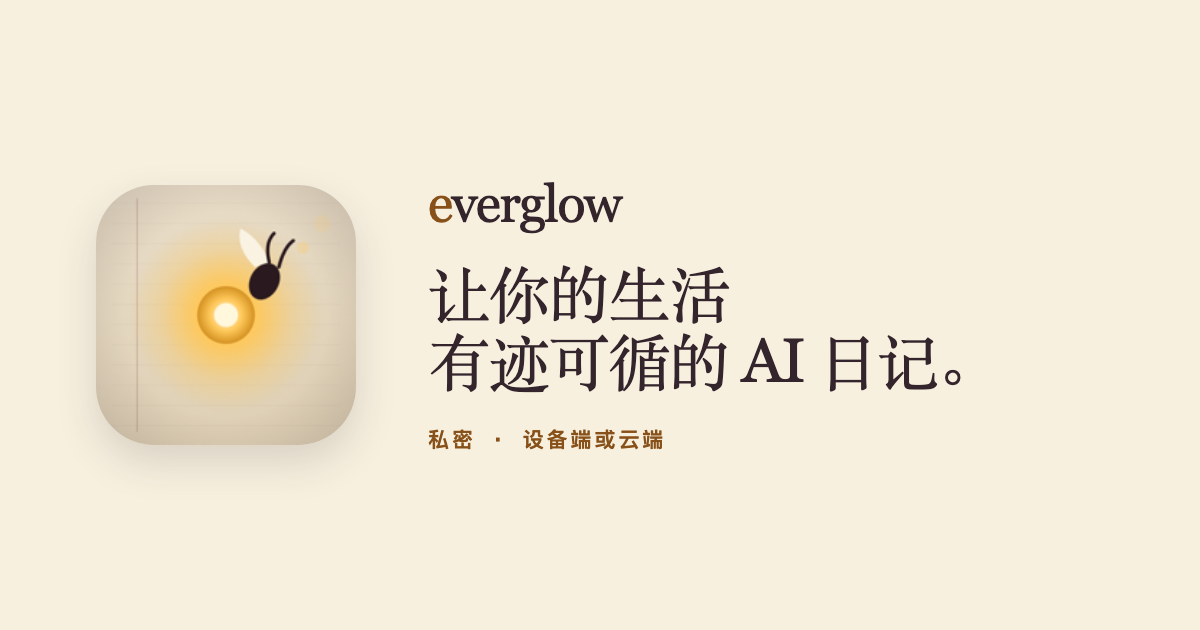
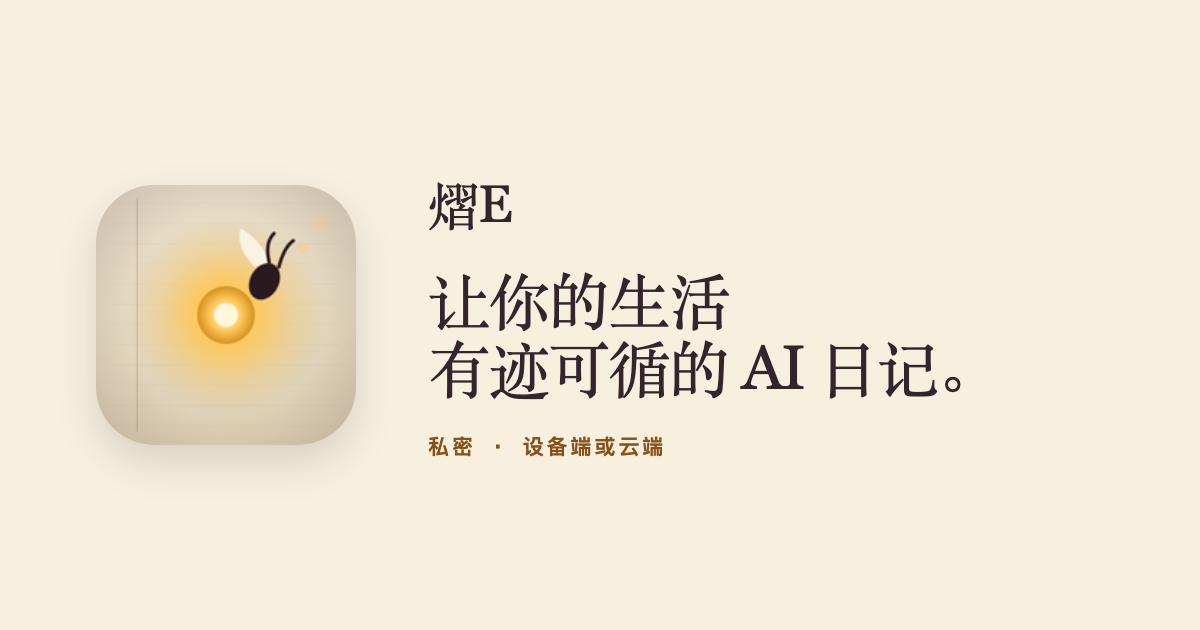
Call the app 熠E in Chinese, as the app and its App Store listing do (#20) (#21)
The Chinese copy, header wordmark, page titles, share card and search
data name the app 熠E (its Chinese App Store name, 熠E: AI 日志, in titles
and structured data), following the app's #974 rule: the Cloud product
keeps "Everglow 云端" and the lines naming Everglow as the Cloud service's
operator keep "Everglow". Structured data lists the English names as
alternates, and llms.txt states the Chinese name. Legal text and every
other language are unchanged.

Fix #20

diff --git a/site/build.py b/site/build.py
@@ -57,6 +57,9 @@ GUIDES = ('rosebud-alternative', 'move-from-day-one', 'own-api-key-journal', 'on
 
 LANGUAGES = {'en':('en','English'), 'zh':('zh-Hans','中文'), 'ja':('ja','日本語'),
              'fr':('fr','Français'), 'es':('es','Español')}
+# In Chinese the app is 熠E (app #973), and its Chinese App Store listing reads 熠E: AI 日志; Everglow elsewhere.
+BRAND = {'zh':'熠E'}
+APP_NAME = {'zh':'熠E: AI 日志'}
 SOURCE = json.loads((ROOT/'locales/source.json').read_text())
 EN_UI = {'language':'Language','main':'Main navigation','skip':'Skip to content',
          'preview':'Local review draft · Nothing published','ai-and-privacy':'AI & privacy',
@@ -147,6 +150,10 @@ for locale,(html_lang,_) in LANGUAGES.items():
     data={} if locale=='en' else json.loads((ROOT/'locales'/(locale+'.json')).read_text())
     ui=EN_UI if locale=='en' else data['ui']
     locale_root=dist if locale=='en' else dist/locale
+    brand=BRAND.get(locale,'Everglow');app_name=APP_NAME.get(locale,'Everglow: AI Journal')
+    # A localized name keeps the English ones as alternates, so search and AI engines connect the two.
+    alternate_names=([brand,'Everglow: AI Journal'] if locale in BRAND else [])+['Everglow AI Journal','Everglow']
+    wordmark=escape(brand) if locale in BRAND else '<span>e</span>verglow'
     for key,filename,path,title,description in PAGES:
         destination=locale_root/filename;destination.parent.mkdir(parents=True,exist_ok=True)
         def link(target):
@@ -170,9 +177,9 @@ for locale,(html_lang,_) in LANGUAGES.items():
             body=body.replace('href="./index.html"','href="'+SUPPORT+'"')
             for sibling in ('privacy','terms'):body=body.replace('href="./'+sibling+'.html"','href="'+link(locale_root/sibling/'index.html')+'"')
             main='<main class="wrap" id="main">'+body+'</main>'
-            header='<header class="legal-header"><a href="'+link(locale_root/'index.html')+'">← Everglow</a>'+language_nav+'</header>'
+            header='<header class="legal-header"><a href="'+link(locale_root/'index.html')+'">← '+escape(brand)+'</a>'+language_nav+'</header>'
             footer=''
-            if locale!='en':title='Everglow — '+segments[0];description=segments[2]
+            if locale!='en':title=brand+' — '+segments[0];description=segments[2]
         else:
             body=translated_body(key,locale,data)
             site_base=link(dist/'assets'/'earlier-entry.png').rsplit('assets/',1)[0]
@@ -180,27 +187,27 @@ for locale,(html_lang,_) in LANGUAGES.items():
             body=body.replace('{{BASE}}assets/',site_base+'assets/').replace('{{BASE}}',local_base).replace('{{APP}}',APP)
             main='<main id="main">'+body+'</main>'
             nav=''.join('<a href="'+link(locale_root/slug/'index.html')+'"'+(' aria-current="page"' if key==slug else '')+'>'+escape(ui[slug])+'</a>' for slug in ('ai-and-privacy','plans','portability'))
-            header='<header><nav class="wrap" aria-label="'+escape(ui['main'],quote=True)+'"><a class="brand" href="'+link(locale_root/'index.html')+'"><img class="brand-icon" src="'+link(dist/'assets'/'icon-192.png')+'" width="32" height="32" alt=""><span>e</span>verglow</a><div class="navlinks">'+nav+'</div></nav>'+language_nav+'</header>'
+            header='<header><nav class="wrap" aria-label="'+escape(ui['main'],quote=True)+'"><a class="brand" href="'+link(locale_root/'index.html')+'"><img class="brand-icon" src="'+link(dist/'assets'/'icon-192.png')+'" width="32" height="32" alt="">'+wordmark+'</a><div class="navlinks">'+nav+'</div></nav>'+language_nav+'</header>'
             footer='<footer><div class="wrap footer-inner"><span>'+escape(ui['footer'])+'</span><div class="footerlinks"><a href="'+SUPPORT+'">'+escape(ui['support'])+'</a><a href="'+link(locale_root/'privacy/index.html')+'">'+escape(ui['privacy'])+'</a><a href="'+link(locale_root/'terms/index.html')+'">'+escape(ui['terms'])+'</a>'+''.join('<a href="'+link(locale_root/q/'index.html')+'">'+escape(ui[q])+'</a>' for q in QUESTIONS+GUIDES)+'</div></div></footer>'
             if locale!='en':
                 texts=data['pages'][key]
                 if key=='home':heading=(texts[1]+('' if locale in ('zh','ja') else ' ')+texts[2]).rstrip('。.')
                 else:heading=texts[1]+(' '+texts[2] if key in ('ai-and-privacy','portability','not-found') else '')
-                title='Everglow — '+heading;description=texts[2 if key=='plans' else 3]
-                if key in QUESTIONS+GUIDES:title=texts[1]+' | Everglow: AI Journal';description=texts[2]
+                title=brand+' — '+heading;description=texts[2 if key=='plans' else 3]
+                if key in QUESTIONS+GUIDES:title=texts[1]+' | '+app_name;description=texts[2]
             graph=[]
             if key=='home':
-                app={'@context':'https://schema.org','@type':'SoftwareApplication','name':'Everglow: AI Journal','operatingSystem':'iOS','applicationCategory':'LifestyleApplication','installUrl':APP,'description':description,'inLanguage':html_lang,
+                app={'@context':'https://schema.org','@type':'SoftwareApplication','name':app_name,'operatingSystem':'iOS','applicationCategory':'LifestyleApplication','installUrl':APP,'description':description,'inLanguage':html_lang,
                      'offers':{'@type':'Offer','price':'0','priceCurrency':'USD','description':'Free download with in-app purchases'},
                      'featureList':ui['features'],'publisher':{'@type':'Person','name':'Haoyu Xu'},
                      # "Everglow" alone is shared with a K-pop group; give search and AI engines the app's full name and its App Store identity.
-                     'alternateName':['Everglow AI Journal','Everglow'],'sameAs':[APP],
+                     'alternateName':alternate_names,'sameAs':[APP],
                      'disambiguatingDescription':'An AI journaling app for iPhone by Haoyu Xu. Not related to the K-pop group EVERGLOW.'}
                 if indexable:
                     app['url']=origin+locale_path
                     app['screenshot']=[origin+'/assets/'+a for a in ('room-listing-entry.png','earlier-entry.png','companion-chat.png','import-preview.png','export.png')]
                 graph.append(app)
-                site={'@context':'https://schema.org','@type':'WebSite','name':'Everglow: AI Journal','alternateName':['Everglow AI Journal','Everglow'],'inLanguage':html_lang}
+                site={'@context':'https://schema.org','@type':'WebSite','name':app_name,'alternateName':alternate_names,'inLanguage':html_lang}
                 if indexable:site['url']=origin+'/'
                 graph.append(site)
             # Built from the visible FAQ, never hidden-only, so markup and page always agree.
@@ -227,7 +234,7 @@ for locale,(html_lang,_) in LANGUAGES.items():
 <meta charset="utf-8"><meta name="viewport" content="width=device-width,initial-scale=1">
 <title>{escape(title)}</title><meta name="description" content="{escape(description,quote=True)}">
 <meta name="robots" content="{robots}"><meta name="apple-itunes-app" content="app-id=6775044981"><meta name="msvalidate.01" content="73882E46817FEBD890296607D8E70152"><meta name="theme-color" content="#f7f0df">
-<meta property="og:type" content="website"><meta property="og:site_name" content="Everglow: AI Journal">
+<meta property="og:type" content="website"><meta property="og:site_name" content="{escape(app_name,quote=True)}">
 <meta property="og:title" content="{escape(title,quote=True)}"><meta property="og:description" content="{escape(description,quote=True)}">
 {metadata}{share_image}<link rel="stylesheet" href="{link(dist/'style.css')}"><link rel="icon" type="image/png" sizes="32x32" href="{link(dist/'assets'/'icon-32.png')}"><link rel="icon" type="image/png" sizes="192x192" href="{link(dist/'assets'/'icon-192.png')}"><link rel="apple-touch-icon" href="{link(dist/'assets'/'apple-touch-icon.png')}">
 <style>{legal_style}</style>

diff --git a/site/make_og.py b/site/make_og.py
@@ -18,9 +18,10 @@ img{{width:260px;height:260px;border-radius:58px;box-shadow:0 18px 40px #34252d2
 .brand{{font:52px Georgia,serif;letter-spacing:-.03em;margin-bottom:26px}}.brand span{{color:#875119}}
 h1{{font:400 {size}px/1.1 Georgia,"Times New Roman",serif;letter-spacing:-.03em;margin:0 0 30px}}
 .eyebrow{{font:650 21px/1.5 ui-monospace,monospace;letter-spacing:.14em;text-transform:uppercase;color:#875119}}
-{cjk}</style><img src="{icon}"><div><div class="brand"><span>e</span>verglow</div><h1>{l1}<br><em>{l2}</em></h1><div class="eyebrow">{eyebrow}</div></div>'''
+{cjk}</style><img src="{icon}"><div><div class="brand">{brand}</div><h1>{l1}<br><em>{l2}</em></h1><div class="eyebrow">{eyebrow}</div></div>'''
 
 source = json.loads((ROOT / 'locales/source.json').read_text())
+BRAND = {'zh': '熠E'}  # the app's Chinese name (app #973), as build.py's header wordmark
 with tempfile.TemporaryDirectory() as tmp:
     for locale in ('en', 'zh', 'ja', 'fr', 'es'):
         home = (source if locale == 'en' else json.loads((ROOT / 'locales' / (locale + '.json')).read_text()))['pages']['home']
@@ -29,7 +30,8 @@ with tempfile.TemporaryDirectory() as tmp:
         em = lambda t: sum(1.0 if ord(c) >= 0x2E80 else 0.45 for c in t)  # CJK glyphs are full-width
         size = min(62, int(670 / max(em(home[1]), em(home[2]))))
         cjk = 'em{font-style:normal}' if locale in ('zh', 'ja') else ''
-        page.write_text(CARD.format(size=size, cjk=cjk, icon=ICON.as_uri(), eyebrow=escape(home[0]), l1=escape(home[1]), l2=escape(home[2])))
+        brand = escape(BRAND[locale]) if locale in BRAND else '<span>e</span>verglow'
+        page.write_text(CARD.format(size=size, cjk=cjk, brand=brand, icon=ICON.as_uri(), eyebrow=escape(home[0]), l1=escape(home[1]), l2=escape(home[2])))
         out = ROOT / 'assets' / ('og-' + locale + '.png')
         subprocess.run([CHROME, '--headless=new', '--disable-gpu', '--hide-scrollbars', '--allow-file-access-from-files',
                         '--window-size=1200,630', '--screenshot=' + str(out), page.as_uri()], check=True, capture_output=True, timeout=60)
